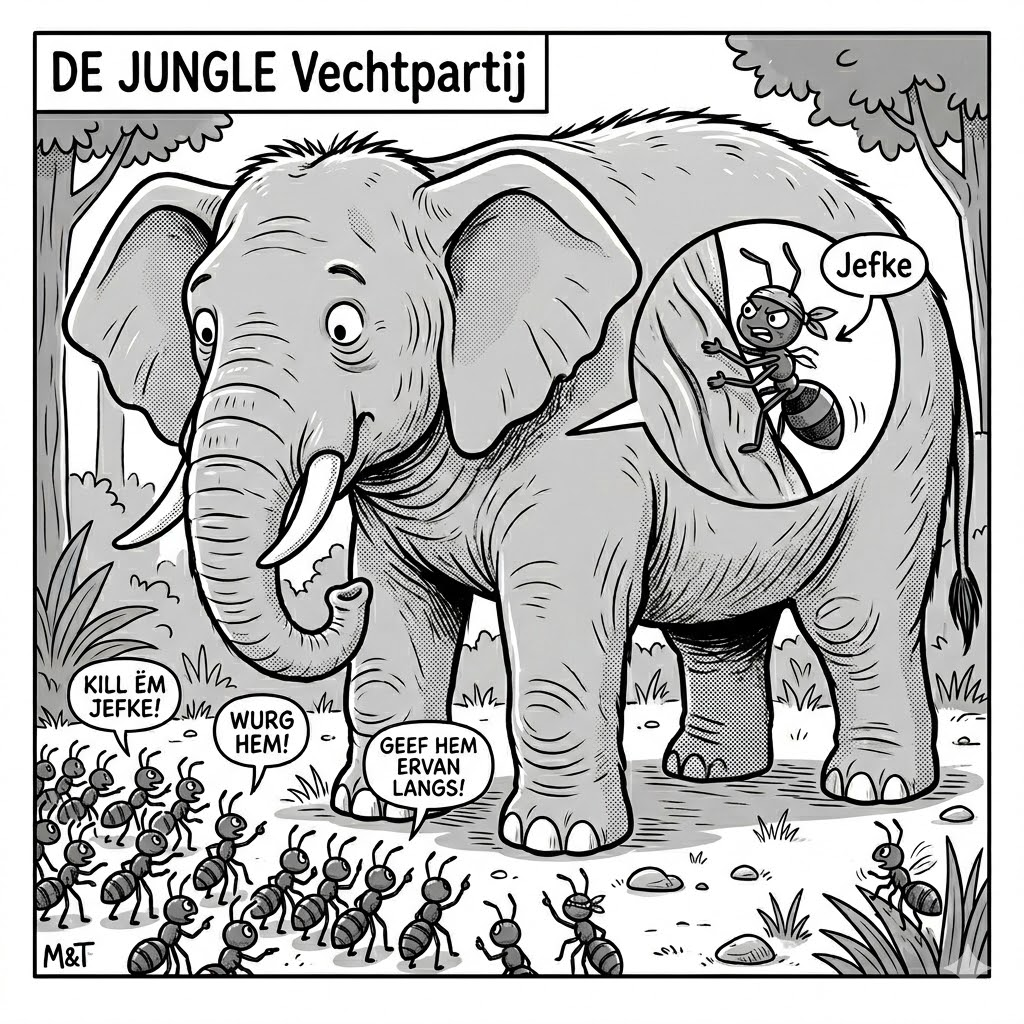
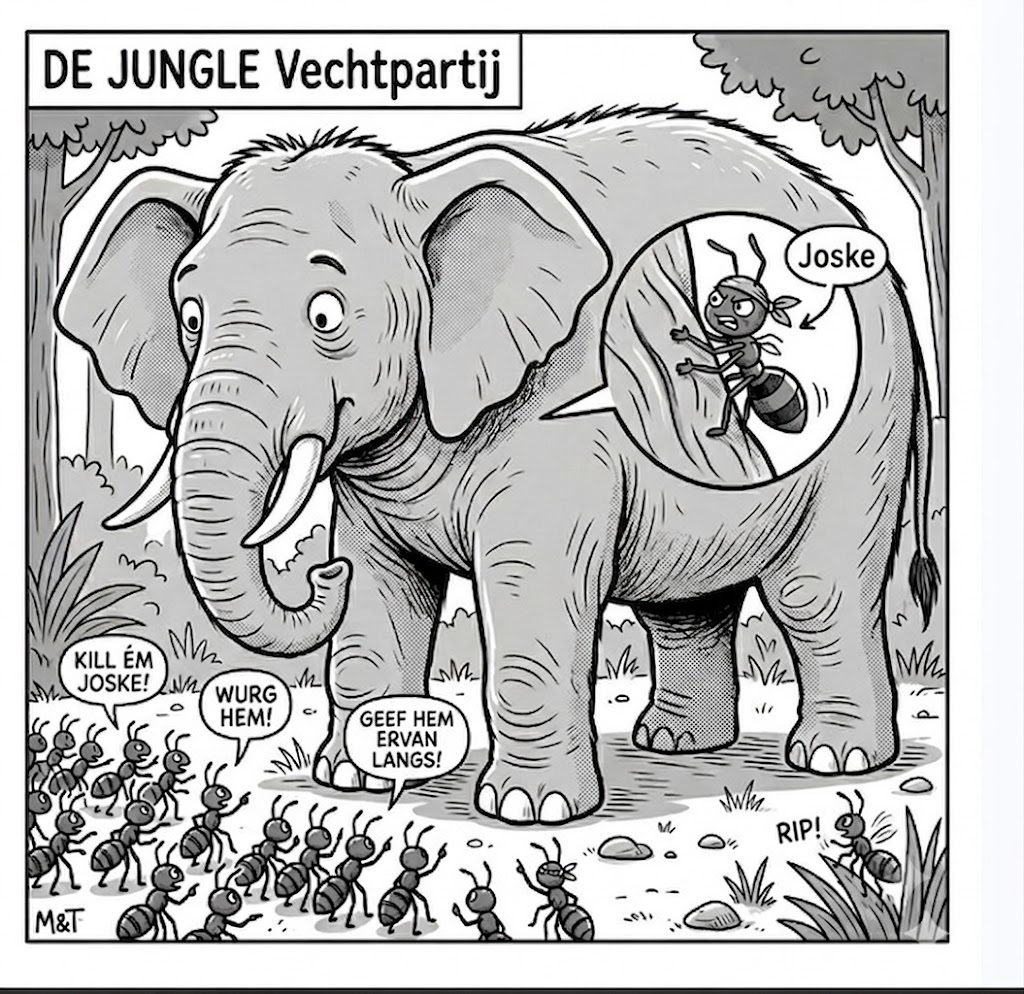
Replace reward puzzle image eight

diff --git a/sw.js b/sw.js
@@ -1,4 +1,4 @@
-const CACHE_NAME = "flashcards-v17";
+const CACHE_NAME = "flashcards-v18";
 const ASSETS = [
   "./",
   "./index.html",